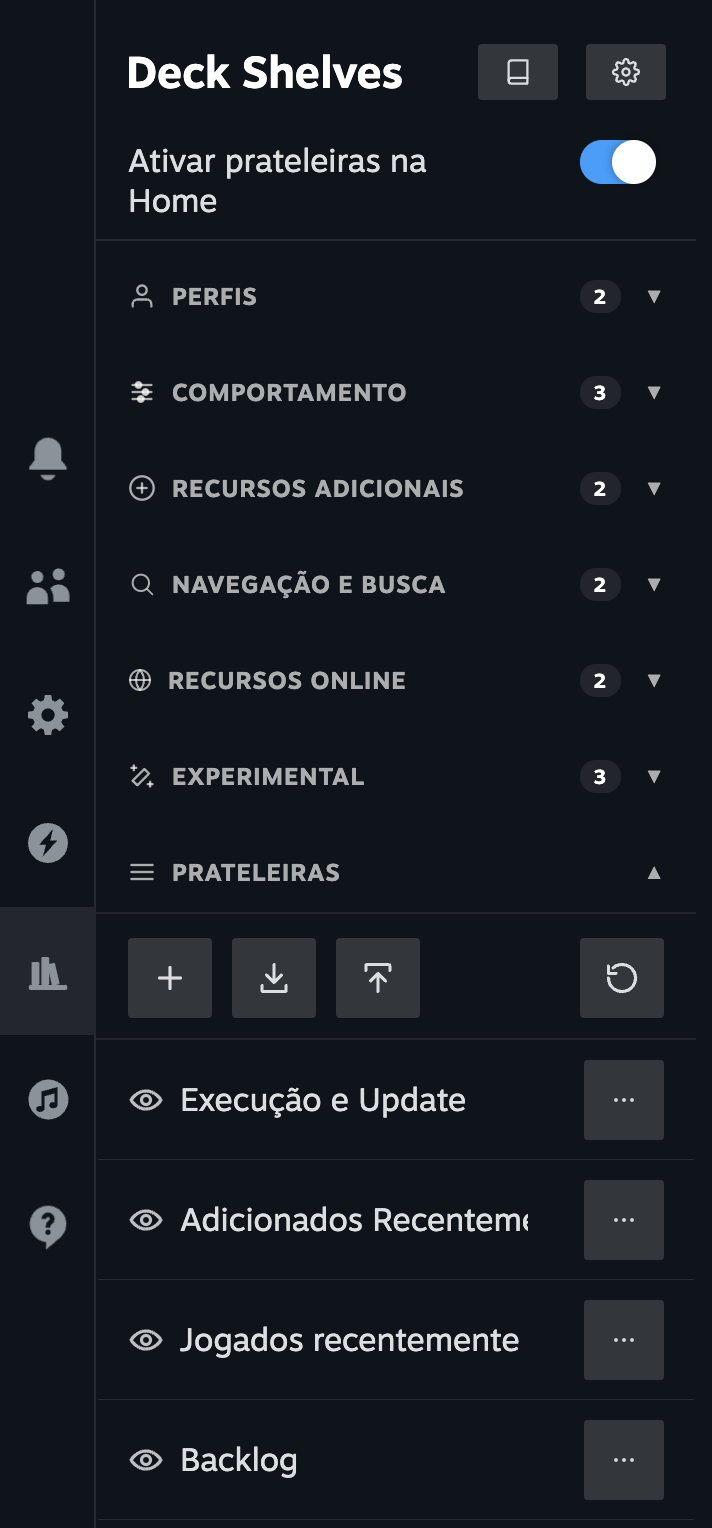
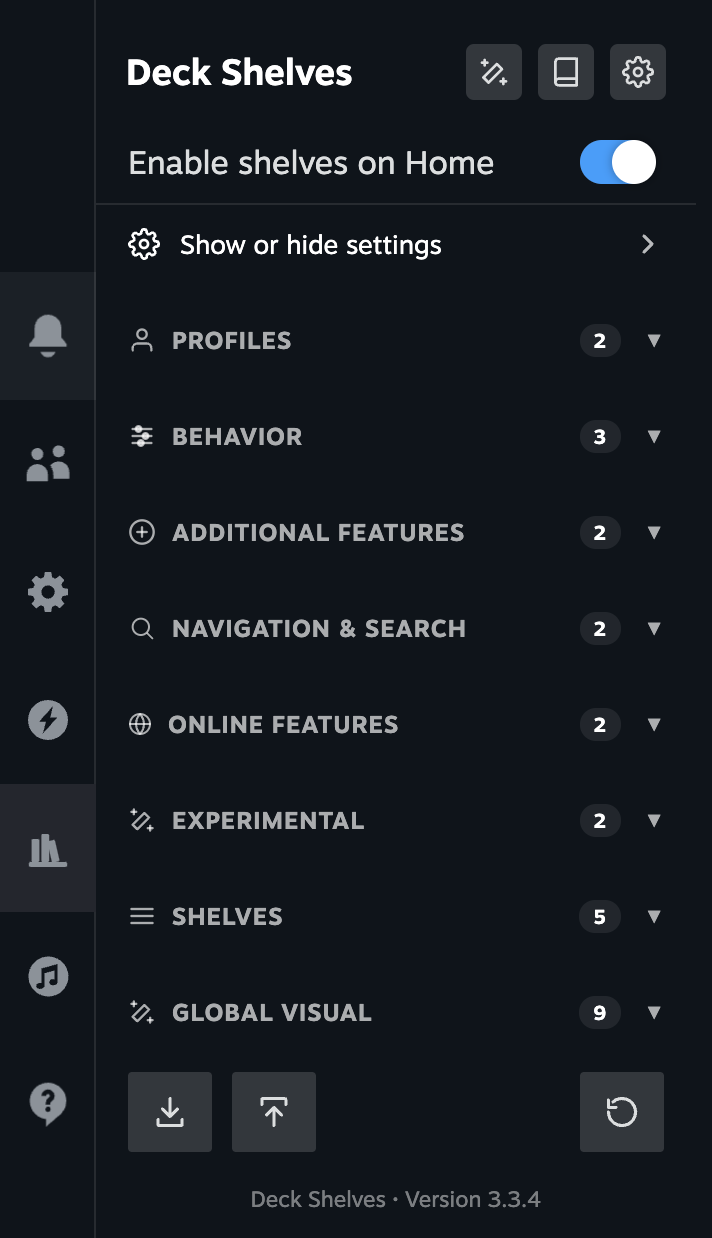
updates

diff --git a/runtime/shelves-host-toast.js b/runtime/shelves-host-toast.js
@@ -9,6 +9,7 @@
     const TOAST_SOURCE_CLIENT = 1;
     const TOAST_TYPE_NEW = 0;      // ToastType.New
     const TOAST_SOUND_MISC = 6;    // the stock "ToastMisc" sound
+    const TOAST_LOCATION_POPUP = 1; // the location Steam's gamepad toast popup renders with
     const DISCOVERY_DELAY_MS = 2500;
     const QUEUE_CAP = 10;
     let state = "off";             // off | pending | active | failed
@@ -33,7 +34,9 @@
       const header = pick(chromeMod, function (s) { return s.indexOf("fnRenderTimestamp") >= 0; });
       const body = pick(chromeMod, function (s) { return s.indexOf("StandardNotificationDescription") >= 0 && s.indexOf("multiline") >= 0; });
       if (!renderer || !chrome || !header || !body) return null;
-      return { renderer: renderer, chrome: chrome, header: header, body: body };
+      // The plate Steam's short popup toasts use; without it popups keep the list-row look.
+      const short = findClassModule(["ShortTemplate", "TwoLine", "ShortLogoDimensions", "Content", "Title", "Body"]);
+      return { renderer: renderer, chrome: chrome, header: header, body: body, short: short };
     }
     /* Pre-flight: the renderer body must survive a run for OUR type under the SAME hook
        stubs the trampoline applies during construction (an empty group: elements only, no
@@ -141,12 +144,22 @@
         dangerouslySetInnerHTML: { __html: svg },
       });
     }
+    /* A popup entry on Steam's short-toast plate (dark, shadowed, up to two lines), the structure
+       Steam's own short popups have: logo, then title (with the per-type icon) over the body. */
+    function PopupToast(sc, d, icon, onActivate) {
+      return h("div", { className: sc.ShortTemplate + " " + sc.TwoLine, onClick: onActivate },
+        h("div", { key: "l", className: sc.ShortLogoDimensions }, logoNode(d)),
+        h("div", { key: "c", className: sc.Content + (sc.FullWidth ? " " + sc.FullWidth : "") },
+          h("div", { key: "h", className: sc.Header }, icon ? h("div", { key: "i", className: sc.Icon }, icon) : null, h("div", { key: "t", className: sc.Title }, d.title)),
+          h("div", { key: "b", className: sc.Body }, d.body)));
+    }
     // One of our entries, in Steam's chrome: frame + header (per-type icon, title, timestamp)
     // + body, the sender's logo on the left. Tapping it dismisses, as Steam's simple toasts do.
     function HostToast(props) {
       const n = props.notification, d = n.data || {};
       const onActivate = function () { if (typeof props.onDismiss === "function") props.onDismiss(); };
       const icon = isElement(d.icon) ? d.icon : undefined;
+      if (props.location === TOAST_LOCATION_POPUP && parts.short) return PopupToast(parts.short, d, icon, onActivate);
       return h(parts.chrome, { location: props.location, logo: logoNode(d), onActivate: onActivate, bNewIndicator: n.bNewIndicator },
         h(parts.header, { key: "h", icon: icon, title: d.title, location: props.location, timestamp: n.rtCreated }),
         h(parts.body, { key: "b", multiline: true }, d.body));
@@ -183,7 +196,7 @@
         const slot = injectTrampoline(found.renderer);
         if (!slot) { logWarn("NOTIFY", "native toasts: renderer already wrapped by another host — notifications stay in the hub view."); return; }
         replaceSlot(slot, handler);
-        parts = { slot: slot, chrome: found.chrome, header: found.header, body: found.body };
+        parts = { slot: slot, chrome: found.chrome, header: found.header, body: found.body, short: found.short };
         state = "active";
         logInfo("NOTIFY", "native toasts active (Steam's toast pipeline + chrome).");
       } catch (e) {

diff --git a/scripts/deckprobe-ext/screenshots/scenarios/hub.py b/scripts/deckprobe-ext/screenshots/scenarios/hub.py
@@ -25,7 +25,6 @@ from typing import Dict, Optional
 
 from deckprobe.screenshots.lib.nav import (
     navigate_to_ds_qam,
-    close_qam,
     navigate_home,
     home_via_mainmenu,
     _qam_eval,
@@ -81,17 +80,49 @@ def _click(host: str, port: int, sel: str) -> str:
     return _qam_eval(host, port, "(function(){var e=%s;if(!e)return 'no';e.click();return 'ok';})()" % _q(sel)) or "no"
 
 
+def _measures(host: str, port: int, sel: str) -> bool:
+    return _qam_eval(host, port, "(function(){var p=%s;if(!p)return false;var r=p.getBoundingClientRect();return r.width>50&&r.height>50;})()" % _q(sel)) is True
+
+
 def _panel_visible(host: str, port: int) -> bool:
-    return _qam_eval(host, port, "(function(){var p=%s;if(!p)return false;var r=p.getBoundingClientRect();return r.width>50&&r.height>50;})()" % _q("[data-fb-panel]")) is True
+    return _measures(host, port, "[data-fb-panel]")
 
 
 def _set_locale(sjc, host: str, port: int) -> None:
+    """The hub's strings follow `__SHELVES_LOCALE__`; the plugin's own panel follows its
+    `__dsSetLocale` hook (src/i18n.ts, shared context) — both, so the tab and its rows read in
+    the capture language whatever Steam's language is."""
     expr = "(function(){try{window.__SHELVES_LOCALE__=%s;}catch(e){}return 1;})()" % json.dumps(LOCALE)
     try:
         sjc.evaluate(expr)
+        sjc.evaluate("(function(){try{globalThis.__dsSetLocale&&globalThis.__dsSetLocale(%s);}catch(e){}return 1;})()" % json.dumps(LOCALE))
     except Exception:
         pass
     _qam_eval(host, port, expr)
+
+
+# Steam's language names (the renderer URL's LANGUAGE=<name>) → the locale codes both UIs use;
+# the same map as the runtime's I18N.STEAM_LANGUAGES.
+_STEAM_LANGUAGES = {
+    "english": "en-US", "brazilian": "pt-BR", "portuguese": "pt-PT", "spanish": "es-ES", "latam": "es-419",
+    "french": "fr-FR", "german": "de-DE", "italian": "it-IT", "dutch": "nl-NL", "polish": "pl-PL",
+    "russian": "ru-RU", "turkish": "tr-TR", "ukrainian": "uk-UA", "japanese": "ja-JP", "koreana": "ko-KR",
+    "schinese": "zh-CN", "tchinese": "zh-TW",
+}
+
+
+def _restore_locale(sjc, host: str, port: int) -> None:
+    """Hand both UIs back to Steam's language after a capture: drop the hub's override and
+    point the plugin's hook at the locale Steam's renderer URL names."""
+    drop = "(function(){try{delete window.__SHELVES_LOCALE__;}catch(e){}return 1;})()"
+    try:
+        sjc.evaluate(drop)
+        name = sjc.evaluate("(function(){var m=/[?&]LANGUAGE=([a-z_]+)/i.exec(String(location.href));return m?m[1].toLowerCase():'';})()")
+        code = _STEAM_LANGUAGES.get(name or "", "en-US")
+        sjc.evaluate("(function(){try{globalThis.__dsSetLocale&&globalThis.__dsSetLocale(%s);}catch(e){}return 1;})()" % json.dumps(code))
+    except Exception:
+        pass
+    _qam_eval(host, port, drop)
 
 
 def _qam_visible(host: str, port: int) -> bool:
@@ -114,47 +145,47 @@ def _ensure_qam(sjc, host: str, port: int, shown: bool) -> bool:
     return _qam_visible(host, port) == shown
 
 
-def _reach_panel(sjc, host: str, port: int) -> bool:
-    """Reach the DS tab and make sure the hub panel is visibly open (non-zero).
-
-    The hub view survives a menu close and a tab switch, so a previous scenario
-    can leave it open: go back to the editor first; let the nav helper reach the
-    tab only when the editor's scope is not already in the menu document (its
-    own toggling is blind); open the hub view once; then show the menu by its
-    observed state."""
-    dbg = _debug
-    dbg("start: panel=%s back=%s scope=%s open-hub=%s visible=%s" % (
-        _present(host, port, "[data-fb-panel]"), _present(host, port, '[data-fb="back"]'),
-        _present(host, port, ".deck-shelves-qam-scope"), _present(host, port, '[data-fb="open-hub"]'),
-        _qam_visible(host, port)))
-    if _present(host, port, "[data-fb-panel]") and _present(host, port, '[data-fb="back"]'):
-        dbg("back → %s" % _click(host, port, '[data-fb="back"]'))
-        time.sleep(0.6)
-    if not _present(host, port, ".deck-shelves-qam-scope"):
-        ok = navigate_to_ds_qam(sjc, host, port)
-        dbg("navigate_to_ds_qam → %s (scope now %s, visible %s)" % (ok, _present(host, port, ".deck-shelves-qam-scope"), _qam_visible(host, port)))
-        if not ok:
-            return False
-    _set_locale(sjc, host, port)
-    if not _present(host, port, "[data-fb-panel]") and _present(host, port, '[data-fb="open-hub"]'):
-        dbg("open-hub → %s" % _click(host, port, '[data-fb="open-hub"]'))
-        time.sleep(1.0)
-    shown = _ensure_qam(sjc, host, port, True)
-    dbg("ensure_qam(shown) → %s; panel=%s visible=%s" % (shown, _present(host, port, "[data-fb-panel]"), _qam_visible(host, port)))
-    if not shown:
+def _show_tab(sjc, host: str, port: int, sel: str) -> bool:
+    """Show the menu by its observed state, then select the Deck Shelves tab by its strip
+    entry until `sel` measures — Steam keeps every tab's DOM while showing another one."""
+    if not _ensure_qam(sjc, host, port, True):
         return False
-    # Steam keeps every tab's DOM while the menu shows another tab (0x0 for ours):
-    # select the Deck Shelves tab by its strip entry until the panel measures.
     for _ in range(3):
         time.sleep(0.6)
-        if _panel_visible(host, port):
-            dbg("panel visible")
+        if _measures(host, port, sel):
             return True
-        dbg("tab click → %s" % _qam_eval(host, port, _DS_OWN_TAB_CLICK))
+        _qam_eval(host, port, _DS_OWN_TAB_CLICK)
         time.sleep(1.0)
-    vis = _panel_visible(host, port)
-    dbg("panel_visible → %s" % vis)
-    return vis
+    return _measures(host, port, sel)
+
+
+def _leave_hub_view(host: str, port: int) -> None:
+    """The hub view survives a menu close and a tab switch: go back to the editor."""
+    if _present(host, port, "[data-fb-panel]") and _present(host, port, '[data-fb="back"]'):
+        _click(host, port, '[data-fb="back"]')
+        time.sleep(0.6)
+
+
+def _reach_editor(sjc, host: str, port: int) -> bool:
+    """The editor's scope in the menu document; the nav helper (whose own toggling is
+    blind) runs only when the scope is not there yet."""
+    _leave_hub_view(host, port)
+    scope = ".deck-shelves-qam-scope"
+    return _present(host, port, scope) or navigate_to_ds_qam(sjc, host, port)
+
+
+def _reach_panel(sjc, host: str, port: int) -> bool:
+    """Reach the tab, open the hub view once, then show it (non-zero)."""
+    if not _reach_editor(sjc, host, port):
+        _debug("editor not reached")
+        return False
+    _set_locale(sjc, host, port)
+    if not _present(host, port, "[data-fb-panel]") and _present(host, port, '[data-fb="open-hub"]'):
+        _click(host, port, '[data-fb="open-hub"]')
+        time.sleep(1.0)
+    shown = _show_tab(sjc, host, port, "[data-fb-panel]")
+    _debug("hub view shown: %s" % shown)
+    return shown
 
 
 def _set_sections(host: str, port: int, want_open: Dict[str, bool]) -> None:
@@ -188,7 +219,8 @@ def _capture_panel(host: str, port: int, out_path: Path):
                     except Exception:
                         pass
         time.sleep(0.7)
-    return out_path if out_path.exists() else None
+    # A file left by an earlier run is not a capture: report the failure.
+    return None
 
 
 def _shot(sjc, host, port, out_dir, want_open, name, extra=None):
@@ -202,32 +234,27 @@ def _shot(sjc, host, port, out_dir, want_open, name, extra=None):
     out = out_dir / name
     p = _capture_panel(host, port, out)
     _ensure_qam(sjc, host, port, False)
+    _restore_locale(sjc, host, port)
     return {name: p} if p else {}
 
 
 @register("qam_tab")
 def qam_tab(sjc, host: str, port: int, out_dir: Path) -> Dict[str, Path]:
-    """The Deck Shelves editor tab in the QAM — its options (NOT the ShelvesHub
-    panel, which `hub_panel` captures). Registered FIRST so the full flow captures
-    it while the QAM is fresh — the hub scenarios' repeated navigation degrades the
-    QAM toggle for the rest of the run. Reaches the DS editor scope via
-    `navigate_to_ds_qam` (which owns the QAM toggling — a manual close-first
-    desyncs it), just WITHOUT clicking open-hub. Uses the helpers defined further
-    down (resolved at call time)."""
-    reached = False
-    for _ in range(4):
-        if navigate_to_ds_qam(sjc, host, port):
-            reached = True
-            break
-        time.sleep(1.0)
-    if not reached:
-        close_qam(sjc)
+    """The Deck Shelves editor tab in the QAM — its options (NOT the ShelvesHub panel,
+    which `hub_panel` captures). Registered FIRST so it runs while the menu is fresh; the
+    locale goes first so the editor renders in the capture language."""
+    _set_locale(sjc, host, port)
+    scope = ".deck-shelves-qam-scope"
+    if not _reach_editor(sjc, host, port) or not _show_tab(sjc, host, port, scope):
+        _debug("editor not shown")
+        _ensure_qam(sjc, host, port, False)
         return {}
     _set_locale(sjc, host, port)
-    time.sleep(0.6)
+    time.sleep(0.8)
     out = out_dir / "qam-tab.png"
-    p = _capture_scope(host, port, out, ".deck-shelves-qam-scope", max_h=760)
-    close_qam(sjc)
+    p = _capture_scope(host, port, out, scope, max_h=760)
+    _ensure_qam(sjc, host, port, False)
+    _restore_locale(sjc, host, port)
     return {"qam-tab.png": p} if p else {}
 
 
@@ -338,7 +365,8 @@ def _capture_scope(host: str, port: int, out_path: Path, sel: str, max_h: int = 
                     except Exception:
                         pass
         time.sleep(0.7)
-    return out_path if out_path.exists() else None
+    # A file left by an earlier run is not a capture: report the failure.
+    return None
 
 
 def _capture_bigpicture(host: str, port: int, out_path: Path):
@@ -363,19 +391,21 @@ def _capture_bigpicture(host: str, port: int, out_path: Path):
                         except Exception:
                             pass
         time.sleep(0.7)
-    return out_path if out_path.exists() else None
+    # A file left by an earlier run is not a capture: report the failure.
+    return None
 
 
 @register("home")
 def home(sjc, host: str, port: int, out_dir: Path) -> Dict[str, Path]:
     """The Deck Shelves Home — the custom shelves this host injects, full-screen."""
     _set_locale(sjc, host, port)
-    close_qam(sjc)
+    _ensure_qam(sjc, host, port, False)
     if not home_via_mainmenu(sjc, host, port):
         navigate_home(sjc)
     time.sleep(2.0)
     out = out_dir / "home.png"
     p = _capture_bigpicture(host, port, out)
+    _restore_locale(sjc, host, port)
     if not p:
         return {}
     shots = {"home.png": p}

diff --git a/docs/pt-BR/CHANGELOG.md b/docs/pt-BR/CHANGELOG.md
@@ -224,8 +224,16 @@ O formato é baseado no Keep a Changelog, e este projeto segue o Versionamento S
   no idioma da captura) e lida com uma visão do hub
   que ficou aberta da captura anterior; as galerias do README, a página de vitrine (reescrita para
   o fluxo atual) e a galeria e a página de funcionalidades do site mostram o conjunto novo, e a
-  página de funcionalidades serve a Home em WebP como a página inicial
+  página de funcionalidades serve a Home em WebP como a página inicial. A rodada captura o painel
+  do plugin em inglês também, devolve as duas interfaces ao idioma do Steam depois de cada captura e
+  não conta mais como captura nova um arquivo deixado por uma rodada anterior
   (`scripts/deckprobe-ext/screenshots/scenarios/hub.py`, `docs/showcase.md`, `site/`).
+- **Os pop-ups de notificação num host sem carregador de plugins têm o fundo de toast do Steam.**
+  No Big Picture do macOS, Windows ou Linux desktop eles apareciam sem fundo (logo e texto soltos
+  sobre a tela): usavam o modelo da lista de notificações do Steam. Agora ficam sobre o fundo de
+  toast curto do Steam — fundo escuro, sombra, logo, título com o ícone sobre um corpo de duas
+  linhas — como os pop-ups curtos do próprio Steam; as entradas na lista de notificações do Steam
+  mantêm o visual de lista (`runtime/shelves-host-toast.js`).
 - **As linhas que abrem o painel lateral terminam com uma seta.** "Ver estado" e "Ver logs" em
   Solução de problemas terminam com um `>` alinhado à direita (16 px, opacidade 0,7), a mesma
   marca que o painel do próprio plugin usa na linha dele que abre um painel lateral

diff --git a/CHANGELOG.md b/CHANGELOG.md
@@ -211,8 +211,16 @@ The format is based on Keep a Changelog, and this project follows Semantic Versi
   capture language) and copes with a hub view that stayed open
   from the previous shot; the README galleries, the showcase page (rewritten for the current
   flow) and the site's gallery and features page show the new set, and the features page serves
-  the Home as WebP like the landing page (`scripts/deckprobe-ext/screenshots/scenarios/hub.py`,
+  the Home as WebP like the landing page. The run captures the plugin's panel in English too, hands
+  both UIs back to Steam's language after each shot, and no longer counts a file an earlier run
+  left as a fresh capture (`scripts/deckprobe-ext/screenshots/scenarios/hub.py`,
   `docs/showcase.md`, `site/`).
+- **Notification popups on a host without a plugin loader have Steam's toast plate.** In Big
+  Picture on macOS, Windows or desktop Linux they were drawn without a background (logo and text
+  floating over the screen): they used the template of Steam's notification list. Popups now sit
+  on Steam's short-toast plate — dark background, shadow, logo, title with its icon over a
+  two-line body — the way Steam's own short popups do; entries in Steam's notification list keep
+  the list look (`runtime/shelves-host-toast.js`).
 - **Rows that open the side panel end with a chevron.** "View status" and "View logs" in
   Troubleshooting end with a right-aligned `>` (16 px, 0.7 opacity), the same mark the plugin's
   own panel uses on its row that opens a side panel (`runtime/shelves-host-qam.js`).

diff --git a/docs/pt-BR/showcase.md b/docs/pt-BR/showcase.md
@@ -54,7 +54,10 @@ funcionalidades e de versões a partir do README e das notas de versão (EN e pt
 As visões do hub são recortadas da borda esquerda do documento do menu até o painel
 (`[data-fb-panel]`), ou até a borda direita do painel lateral quando ele está aberto (fica à direita
 da visão do hub), então as capturas do painel lateral são mais largas. As capturas são em
-inglês (`window.__SHELVES_LOCALE__`, `--locale` para trocar), seja qual for o idioma do Steam.
+inglês (`window.__SHELVES_LOCALE__` para os textos do hub e o hook `__dsSetLocale` do próprio plugin
+para o painel dele; `--locale` para trocar), seja qual for o idioma do Steam, e cada cenário devolve
+os dois ao idioma do Steam depois. Um cenário que não conseguiu uma captura nova não reporta saída
+(um arquivo antigo em `assets/screenshots/` nunca conta).
 
 ## Capturando
 

diff --git a/docs/showcase.md b/docs/showcase.md
@@ -54,7 +54,10 @@ lists inside the pages from the README and the release notes (EN and pt-BR).
 The hub views are clipped from the menu document's left edge to the panel (`[data-fb-panel]`), or
 to the side panel's right edge when one is open (it sits to the right of the hub view), so the
 side-panel shots are wider. Captures are taken in English
-(`window.__SHELVES_LOCALE__`, `--locale` to change) regardless of Steam's language.
+(`window.__SHELVES_LOCALE__` for the hub's strings and the plugin's own `__dsSetLocale` hook for
+its panel; `--locale` to change) regardless of Steam's language, and each scenario hands both back
+to Steam's language afterwards. A scenario that could not take a fresh capture reports no output
+(an older file in `assets/screenshots/` is never counted).
 
 ## Capturing
 
